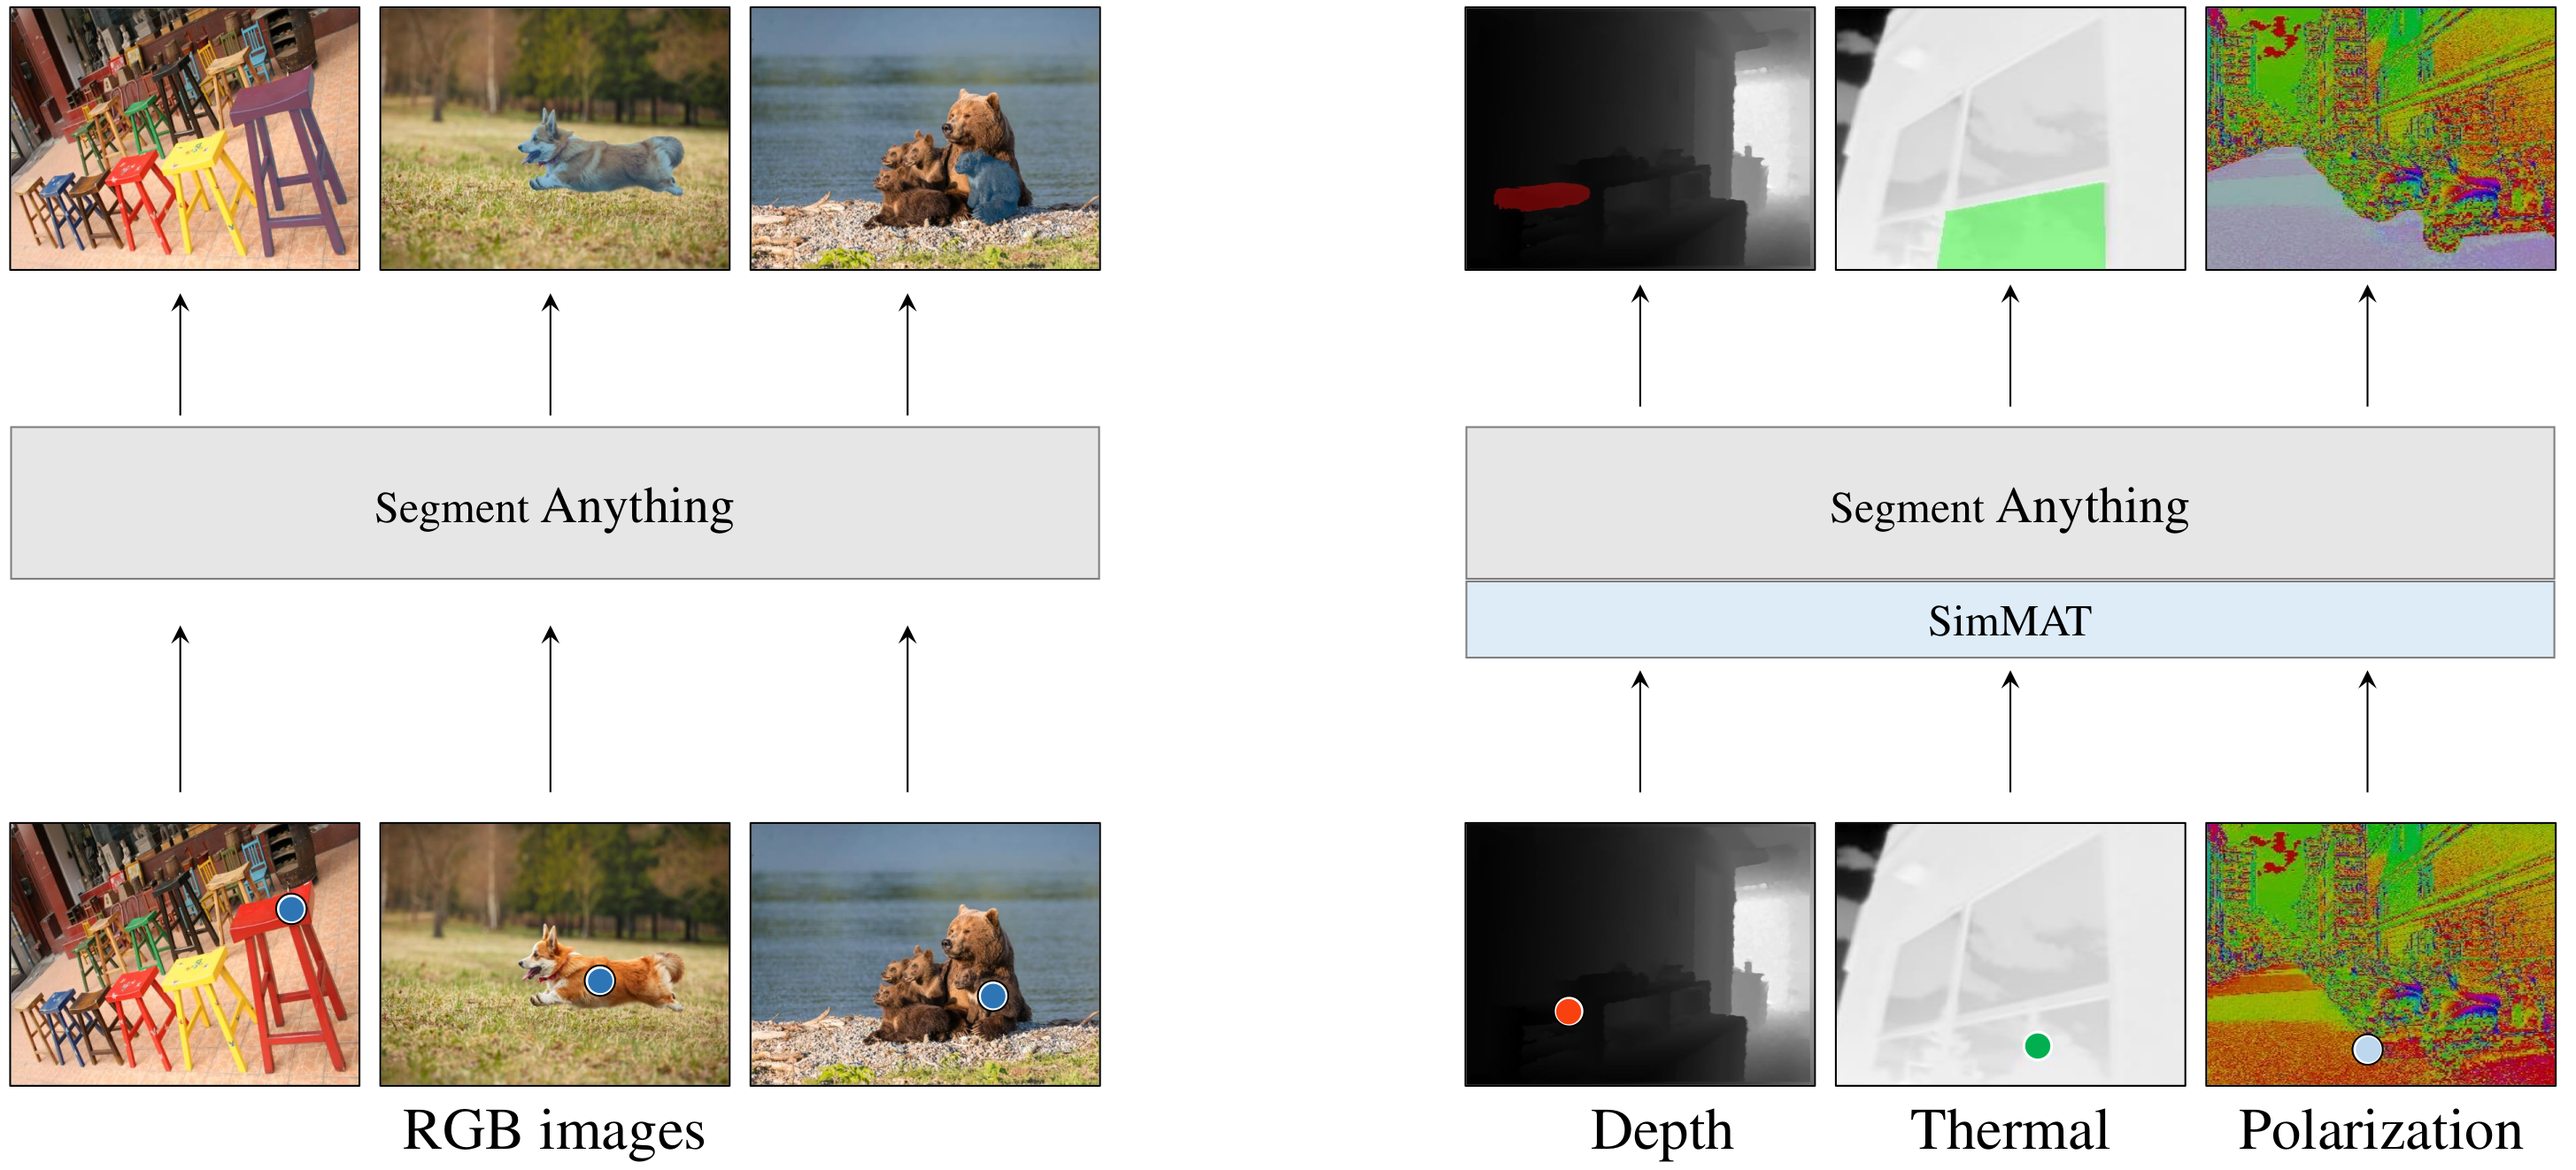
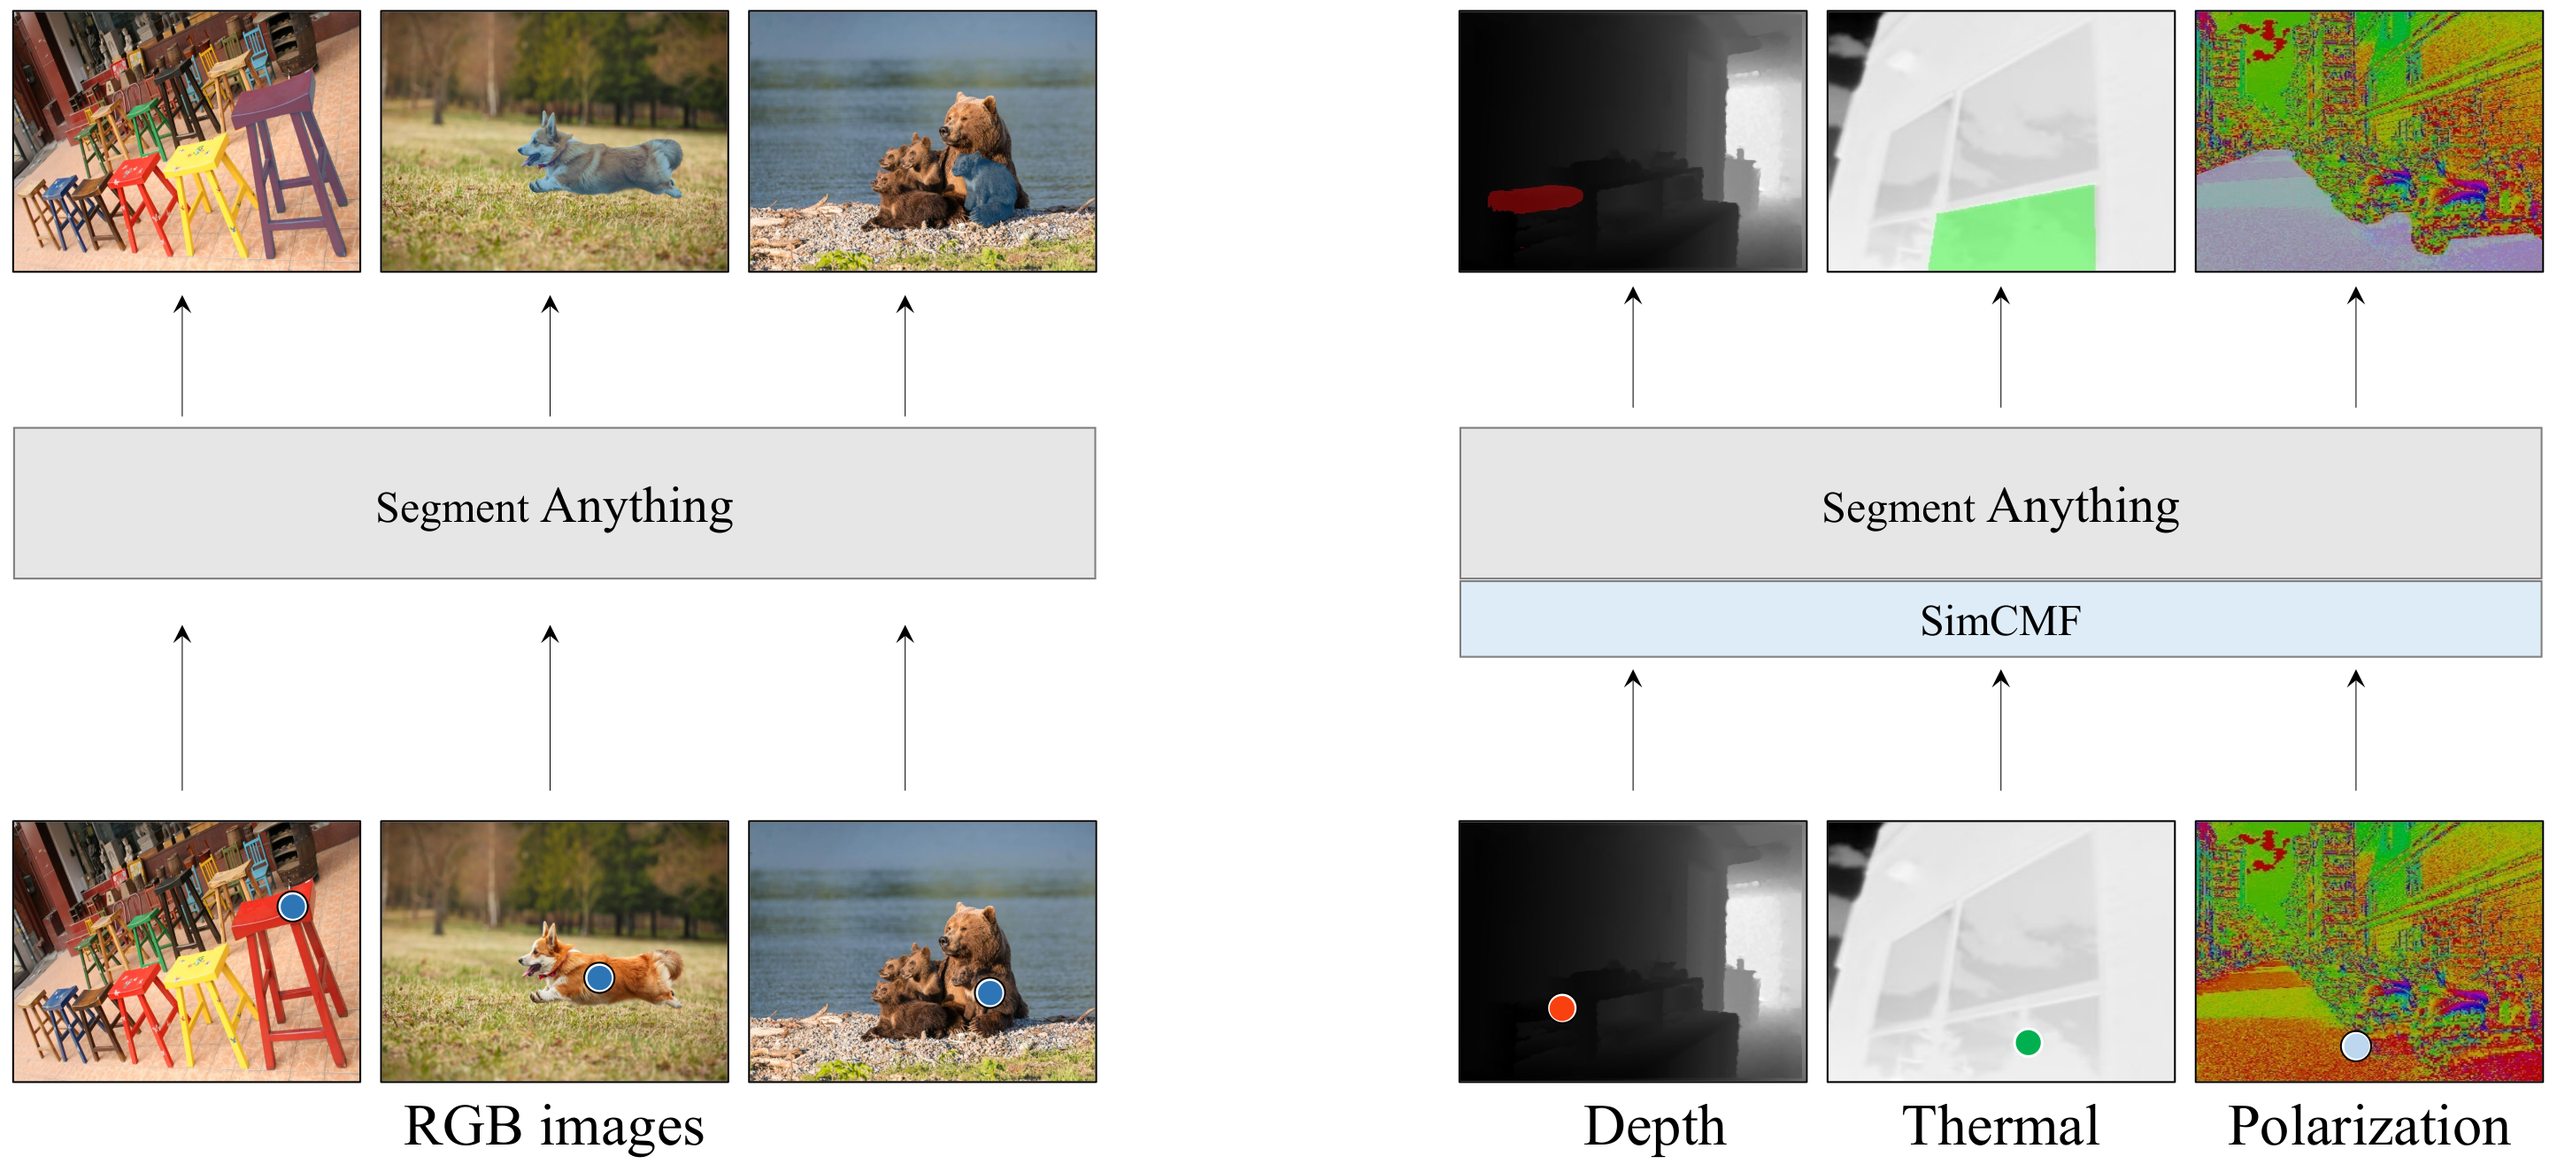
SimCMF

diff --git a/models/projector.py b/models/projector.py
@@ -355,7 +355,7 @@ class Pre_Callback_Post_Projector(nn.Module):
                 nn.init.uniform_(self.zip_rgbx.weight)
                 nn.init.zeros_(self.zip_rgbx.bias)
 
-        elif proj_type =='simmat':
+        elif proj_type =='simcmf':
             self.moe = nn.Sequential(nn.Conv2d(modal_chans, modal_chans*inplane, 3, 1, padding=1),
                                      LayerNorm2d(modal_chans*inplane),
                                      nn.ReLU(),
@@ -437,7 +437,7 @@ class Pre_Callback_Post_Projector(nn.Module):
             return output, None
 
 
-        elif self.proj_type == 'simmat':
+        elif self.proj_type == 'simcmf':
             weights = torch.sigmoid(self.moe(input))
             up_branch, down_branch = input * weights, input * (1-weights)
             # old

diff --git a/cfg.py b/cfg.py
@@ -1,7 +1,7 @@
 import argparse
 
 def valid_type(value):
-    choices = ['baseline_a', 'baseline_b', 'baseline_c', 'baseline_d', 'simmat', 'zeroshot']
+    choices = ['baseline_a', 'baseline_b', 'baseline_c', 'baseline_d', 'simcmf', 'zeroshot']
     if value in choices or value.__contains__('preconv') or value.__contains__('preattn'):
         return value
     raise 'wrong -proj_type'

diff --git a/README.md b/README.md
@@ -1,10 +1,10 @@
 
 
-# SimMAT: Exploring Transferability from Vision Foundation Models to Any Image Modality
-- Authors: [Chengyang Lei](https://chenyanglei.github.io/), [Liyi Chen](https://scholar.google.com/citations?user=nMev-10AAAAJ&hl=zh-CN), [Jun Cen](https://cen-jun.com/), [Xiao Chen](https://scholar.google.com/citations?user=swFOM1wAAAAJ&hl=en), [Zhen Lei](http://www.cbsr.ia.ac.cn/users/zlei/), [Felix Heide](https://www.cs.princeton.edu/~fheide/), [Ziwei Liu](https://liuziwei7.github.io/), [Qifeng Chen](https://cqf.io/), [Zhaoxiang Zhang](https://zhaoxiangzhang.net/) 
+# SimCMF: A Simple Cross-modal Fine-tuning Strategy from Vision Foundation Models to Any Imaging Modality
+- Authors: [Chengyang Lei](https://chenyanglei.github.io/), [Liyi Chen](https://scholar.google.com/citations?user=nMev-10AAAAJ&hl=zh-CN), [Jun Cen](https://cen-jun.com/), [Xiao Chen](https://scholar.google.com/citations?user=swFOM1wAAAAJ&hl=en), [Zhen Lei](http://www.cbsr.ia.ac.cn/users/zlei/), [Felix Heide](https://www.cs.princeton.edu/~fheide/), [Qifeng Chen](https://cqf.io/), [Zhaoxiang Zhang](https://zhaoxiangzhang.net/) 
 
 ***
-SimMAT aims to transfer the ability of large RGB-based models to other modalities (e.g., Depth, Thermal, Polarization), which suffering from limited training data. For example,SimMAT enable the Segment Anything Model the ability to handle modality beyond RGB images.           
+SimCMF aims to transfer the ability of large RGB-based models to other modalities (e.g., Depth, Thermal, Polarization), which suffering from limited training data. For example,SimCMF enable the Segment Anything Model the ability to handle modality beyond RGB images.           
 <p align="center">
 <img src="resources/overview.png" width="95%">
 </p>
@@ -13,10 +13,10 @@ SimMAT aims to transfer the ability of large RGB-based models to other modalitie
 ## <a name="GettingStarted"></a>Getting Started
 Firstly, prepare the project and create the environment.
 ```
-git clone https://github.com/mt-cly/SimMAT
-cd SimMAT
-conda create -n simmat python=3.10
-conda activate simmat
+git clone https://github.com/mt-cly/SimCMF
+cd SimCMF
+conda create -n simcmf python=3.10
+conda activate simcmf
 pip install -r requirements.txt
 # pretrained SAM-B 
 wget https://dl.fbaipublicfiles.com/segment_anything/sam_vit_b_01ec64.pth
@@ -37,7 +37,7 @@ We provide segmentation benchmark to study the segmentation performance in vario
 You can download one or all benchmark from given links, unzip and move them to the `data` folder, the file structure should be as follows. 
 
 ```
---SimMAT
+--SimCMF
    |--data
      |--IVRG_RGBNIR
      |--NYUDepthv2
@@ -50,7 +50,7 @@ You can simply execute `python train.py` followed by optional arguments.
 ```python
   -net         # specify the tuning methods. Options: {sam_full_finetune, sam_linear_probing, sam_mlp_adapter, sam_lora, sam_prompt, sam_prefix}
   -modality    # modality name. Options:{pgsnet_rgbp, pgsnet_p, rgbd, d, rgbhha, hha, nir, rgbnir, rgbt, t,zju-rgbp}
-  -proj_type   # the pre-projection before foundation model Options: {simmat, baseline_a, baseline_b, baseline_c, baseline_d}
+  -proj_type   # the pre-projection before foundation model Options: {simcmf, baseline_a, baseline_b, baseline_c, baseline_d}
   -exp_name    # the experiment name
   -val_freq    # interval epochs between each validation. Default: 5
   -b           # batch size. Default: 4
@@ -65,11 +65,11 @@ sh train.sh
 ```
 
 
-[//]: # (Following is an example to adapt SAM-B to modality of AOLP+DOLP+RGB with proposed SimMAT:)
+[//]: # (Following is an example to adapt SAM-B to modality of AOLP+DOLP+RGB with proposed SimCMF:)
 
 [//]: # (```python)
 
-[//]: # (python train.py -net sam_lora -modality pgsnet_rgbp -proj_type simmat -exp_name exps -lr 3e-4 -ddp)
+[//]: # (python train.py -net sam_lora -modality pgsnet_rgbp -proj_type simcmf -exp_name exps -lr 3e-4 -ddp)
 
 [//]: # (```)
 
@@ -77,8 +77,8 @@ sh train.sh
 ## Citation
 
 ```
-@article{lei2024simmat,
-  title={SimMAT: Exploring Transferability from Vision Foundation Models to Any Image Modality},
+@article{lei2024simcmf,
+  title={SimCMF: Exploring Transferability from Vision Foundation Models to Any Image Modality},
   author={Lei, Chengyang and Chen, Liyi and Cen, Jun and Chen, Xiao and Lei, Zhen and Heide, Felix and Liu, Ziwei and Chen, Qifeng and Zhang, Zhaoxiang},
   year={2024}
 }
